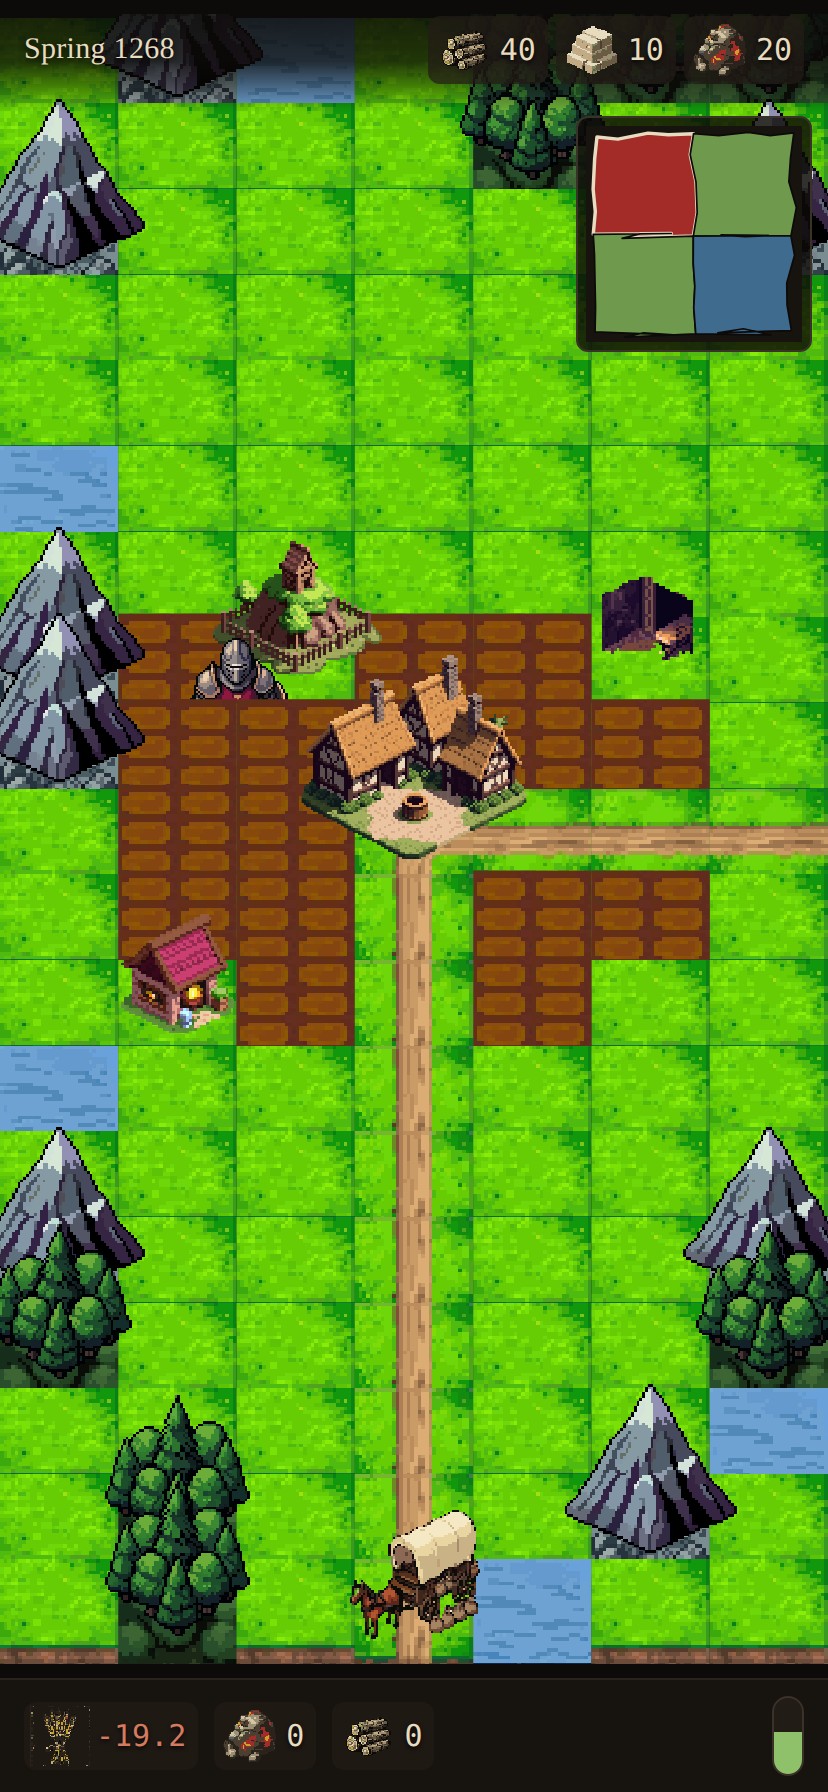
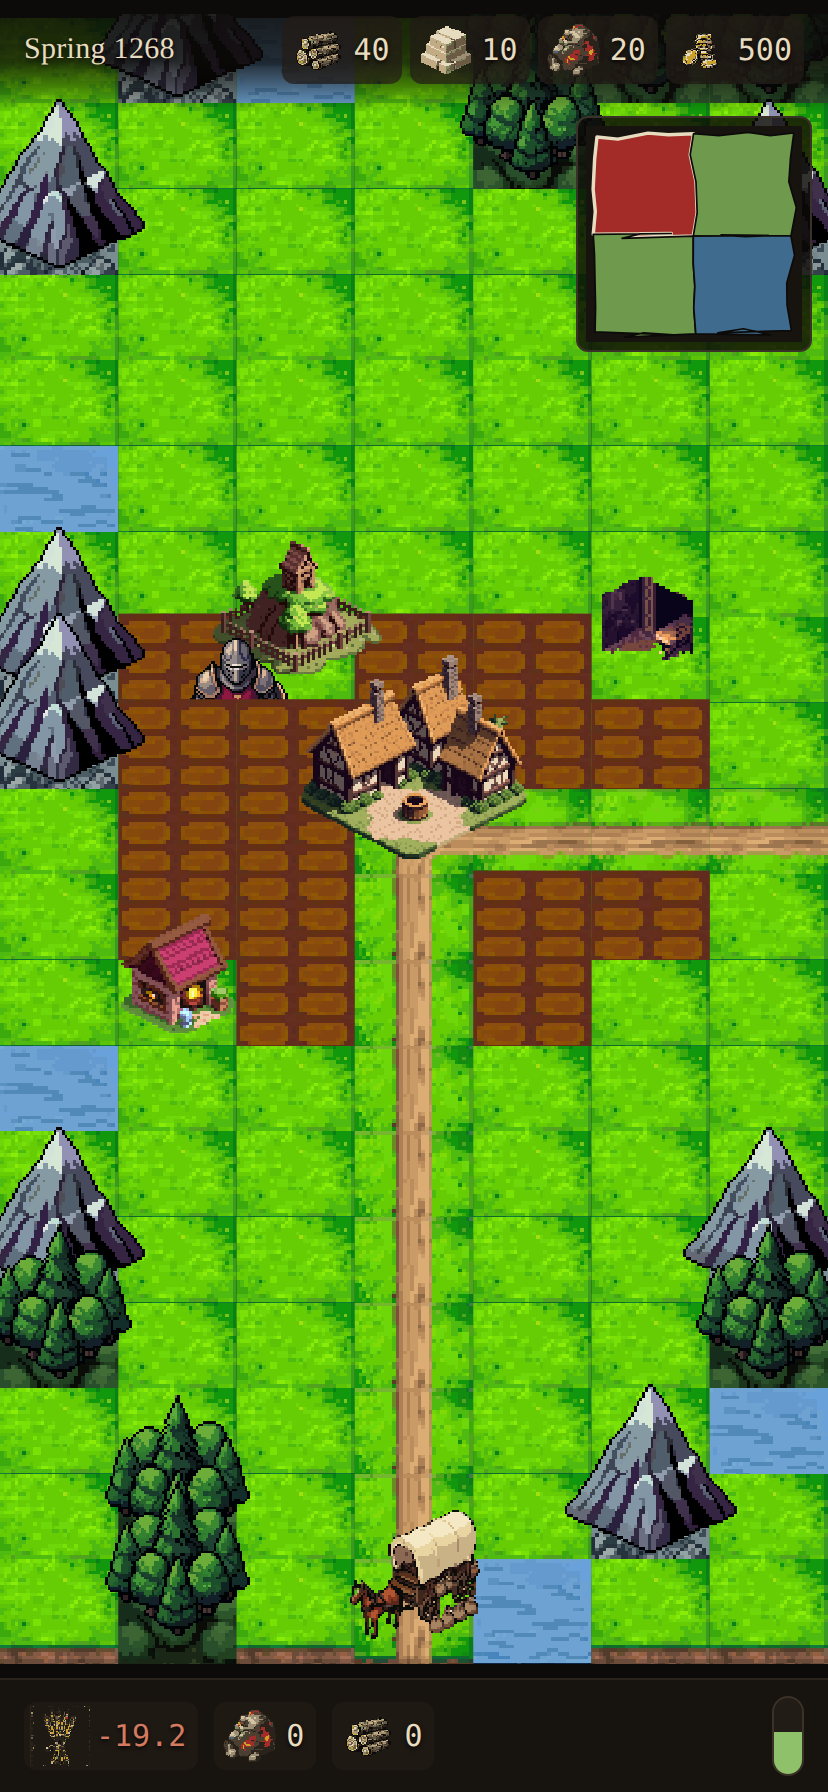
Keep gold in the top bar
Four pooled resources, materials first and money last so the existing three
keep their positions.

The doc comment above the list had to change with it, not just the array: it
previously argued for gold's exclusion, which would have left a comment
contradicting the code three lines under it. What these four actually have in
common is that they need no shipping decision, which is what makes a single
realm-wide total a true statement about them. Food stays out for the opposite
reason — it is held per county and must be carted, so one number for it would
be a lie however convenient.

All four fit a 414pt viewport beside the season line with nothing clipped, but
the bar is at its limit rather than comfortably inside it: 500 is the widest
value on screen and its pill sits flush to the edge. A five-digit treasury will
crowd the season text. The fix when it comes should be abbreviating large
numbers rather than shrinking the icons, which went 22px to 30px precisely
because the material was guesswork at arm's length.

209 tests pass.

Claude-Session: https://claude.ai/code/session_01XYH86XdY27T4fpZWLvLtAe

Changed region(s): [[0.3321, 0.0, 0.6341, 0.0625], [0.6643, 0.0, 0.8152, 0.0625], [0.8152, 0.0, 0.936, 0.0625]]

diff --git a/src/ui/county/CountyOverhead.tsx b/src/ui/county/CountyOverhead.tsx
@@ -388,15 +388,15 @@ function IndustrySprite({ site }: { site: IndustrySiteState }) {
 }
 
 /**
- * The globally pooled raw materials, in the order the spec names them.
+ * Everything that pools empire-wide, materials first and money last.
  *
- * These three and no others: they are the resources that pool empire-wide with
- * no shipping decision attached, which is exactly why they can be shown as one
- * realm-wide total. Food is deliberately absent — it is held per county and
- * must be carted, so a single number for it would be a lie. Gold pools too but
- * is money rather than material, and belongs behind the Treasury.
+ * These four and no others. What they have in common is that they need no
+ * shipping decision, which is exactly why a single realm-wide total is a true
+ * statement about them. Food is deliberately absent for the opposite reason —
+ * it is held per county and must be carted, so one number for it would be a
+ * lie however convenient.
  */
-const POOLED_MATERIALS = ['wood', 'stone', 'ore'] as const;
+const POOLED_RESOURCES = ['wood', 'stone', 'ore', 'gold'] as const;
 
 /**
  * Top bar — an OVERLAY, not a header.
@@ -420,7 +420,7 @@ function TopBar({ match, label }: { match: MatchState; label: string }) {
     <header className="ov-top">
       <div className="ov-when">{label}</div>
       <div className="ov-res">
-        {POOLED_MATERIALS.map((resource) => (
+        {POOLED_RESOURCES.map((resource) => (
           <Readout key={resource} resource={resource} value={purse?.[resource] ?? 0} />
         ))}
       </div>
